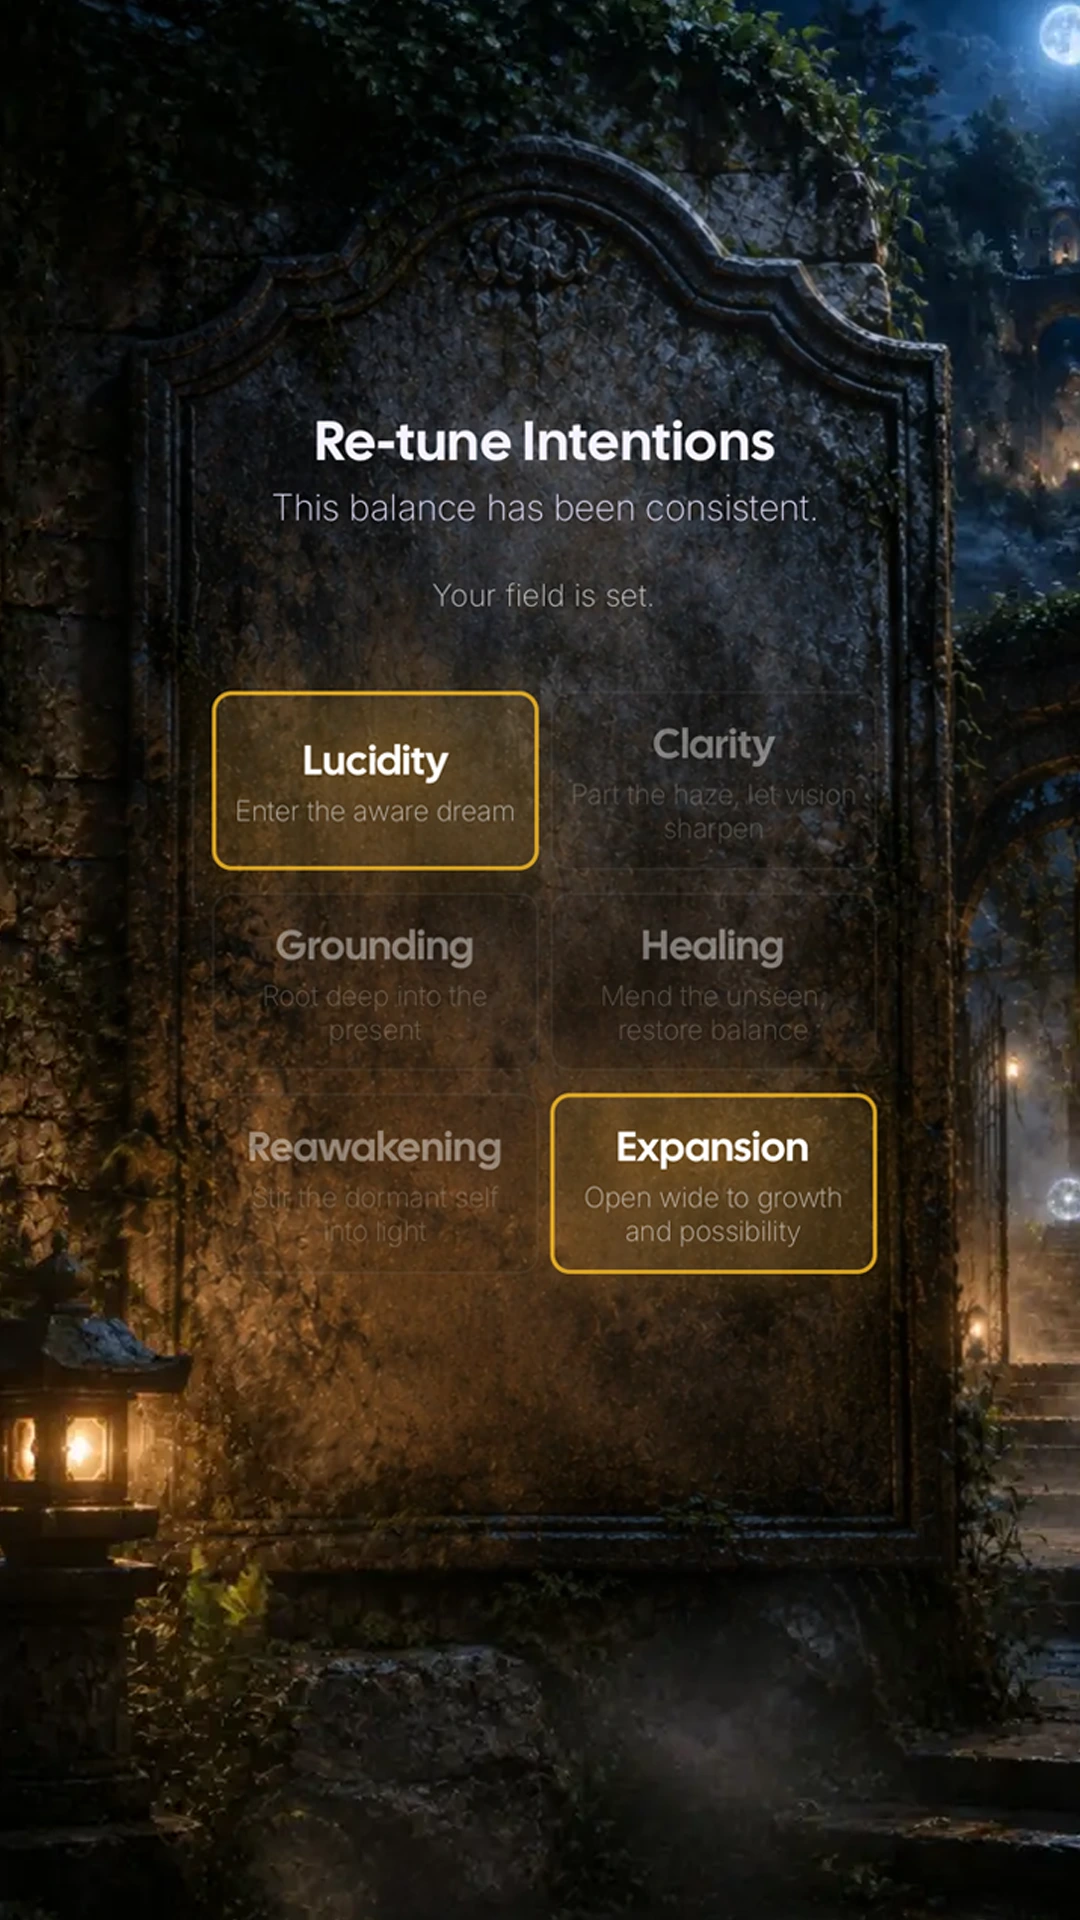
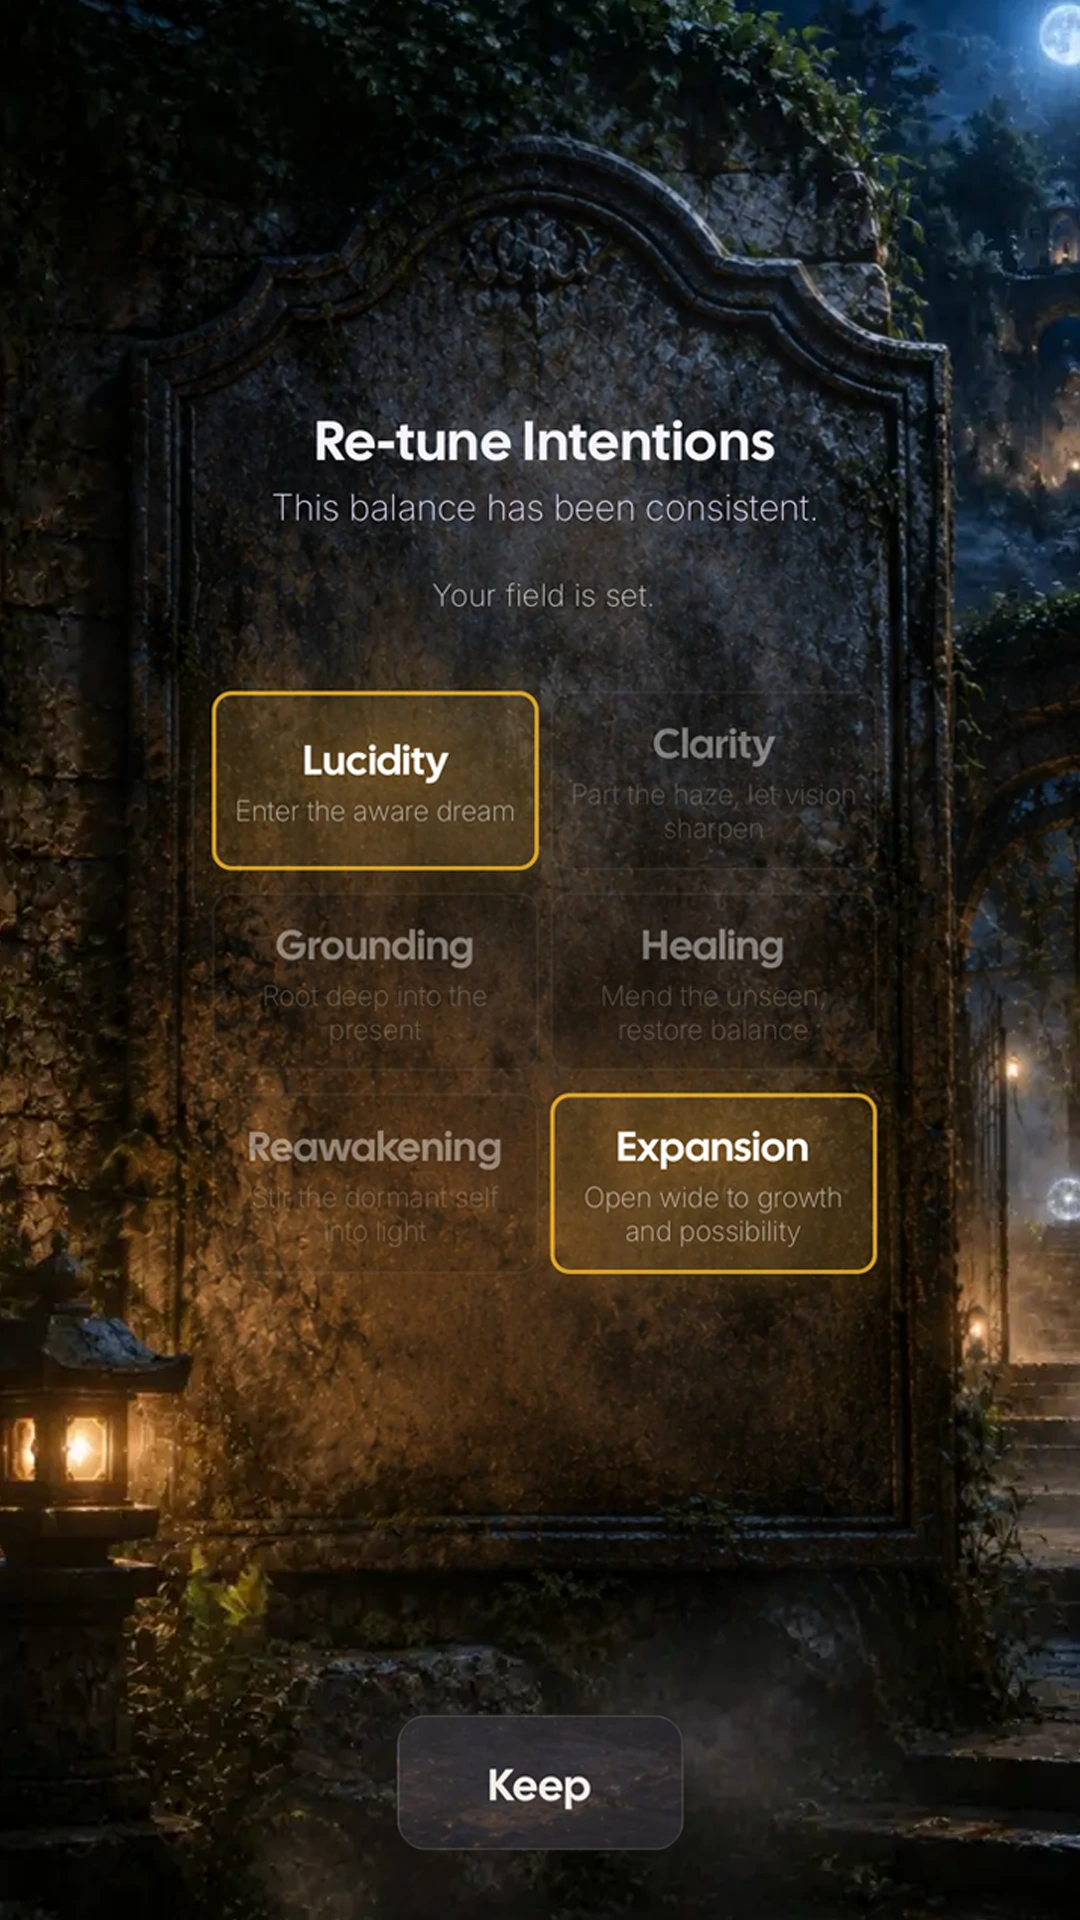
Swap in the Intentions screen with the Keep CTA; fix Arrive hover glows
Re-exported practice_intentions_ui.webp (q92) from the updated PNG master
so the site actually serves the new screen with the "Keep" button. The
portal's bottom fade (14%) was washing the CTA out, so the bottom edge now
uses a shorter, softer fade (5%, 70% opacity); the top fade is unchanged.

Also fixed a latent bug in js/practice.js: the portal's bounding rect was
cached once at load and never refreshed, so after scrolling to the
section the intention-card hover glows no longer lined up with the
pointer (they only worked right after a resize). The rect is now read
once per animation frame, matching the Sanctum discovery layer.

Changed region(s): [[0.3667, 0.875, 0.6417, 0.9688]]

diff --git a/js/practice.js b/js/practice.js
@@ -7,9 +7,9 @@
    binary hover toggle. Fine-pointer desktop only, fully inert under
    reduced motion or on touch — mirrors home.js's guards exactly.
 
-   Geometry (the portal's rect, and each region's center as a fraction
-   of it) is cached and only recomputed on resize, so pointermove never
-   forces a layout read. One rAF-throttled write per frame.
+   Each region's center is a fixed fraction of the portal; the portal's
+   own rect is read once per animation frame (not per raw pointermove),
+   because it scrolls with the page. One rAF-throttled write per frame.
    ========================================================================== */
 
 (function () {
@@ -40,13 +40,6 @@
     return portal.querySelector('.intention-glow--' + name);
   }
 
-  var rect = null;
-  function refreshRect() {
-    rect = portal.getBoundingClientRect();
-  }
-  refreshRect();
-  window.addEventListener('resize', refreshRect, { passive: true });
-
   var RADIUS = 0.22; // falloff radius, as a fraction of portal size
   var pending = null;
   var ticking = false;
@@ -68,15 +61,19 @@
   }
 
   function onPointerMove(e) {
-    if (reduceMotionQuery.matches || !finePointerQuery.matches || !rect) return;
-    pending = {
-      px: (e.clientX - rect.left) / rect.width,
-      py: (e.clientY - rect.top) / rect.height
-    };
+    if (reduceMotionQuery.matches || !finePointerQuery.matches) return;
+    // Raw client coords only; converted against a fresh portal rect in the
+    // rAF tick. This section scrolls with the page, so a rect cached at
+    // load (or only on resize) goes stale as soon as the user scrolls to
+    // it and the glow regions stop lining up with the pointer.
+    pending = { clientX: e.clientX, clientY: e.clientY };
     if (ticking) return;
     ticking = true;
     requestAnimationFrame(function () {
-      if (pending) apply(pending.px, pending.py);
+      if (pending) {
+        var r = portal.getBoundingClientRect();
+        apply((pending.clientX - r.left) / r.width, (pending.clientY - r.top) / r.height);
+      }
       ticking = false;
     });
   }

diff --git a/css/practice.css b/css/practice.css
@@ -202,6 +202,12 @@
   height: 14%;
   pointer-events: none;
 }
+/* The Intentions screen ends in a "Keep" CTA at ~89-96% of its height;
+   the full 14% fade used to wash it out, so the bottom edge gets a
+   shorter, softer fade than the top. */
+.arrive-portal-frame::after {
+  height: 5%;
+}
 .arrive-portal-frame::before {
   top: 0;
   background: linear-gradient(180deg, #050308 0%, transparent 100%);
@@ -210,6 +216,7 @@
 .arrive-portal-frame::after {
   bottom: 0;
   background: linear-gradient(0deg, var(--color-bg-primary) 0%, transparent 100%);
+  opacity: 0.7;
 }
 
 /* ---------- Intention hotspots ----------
